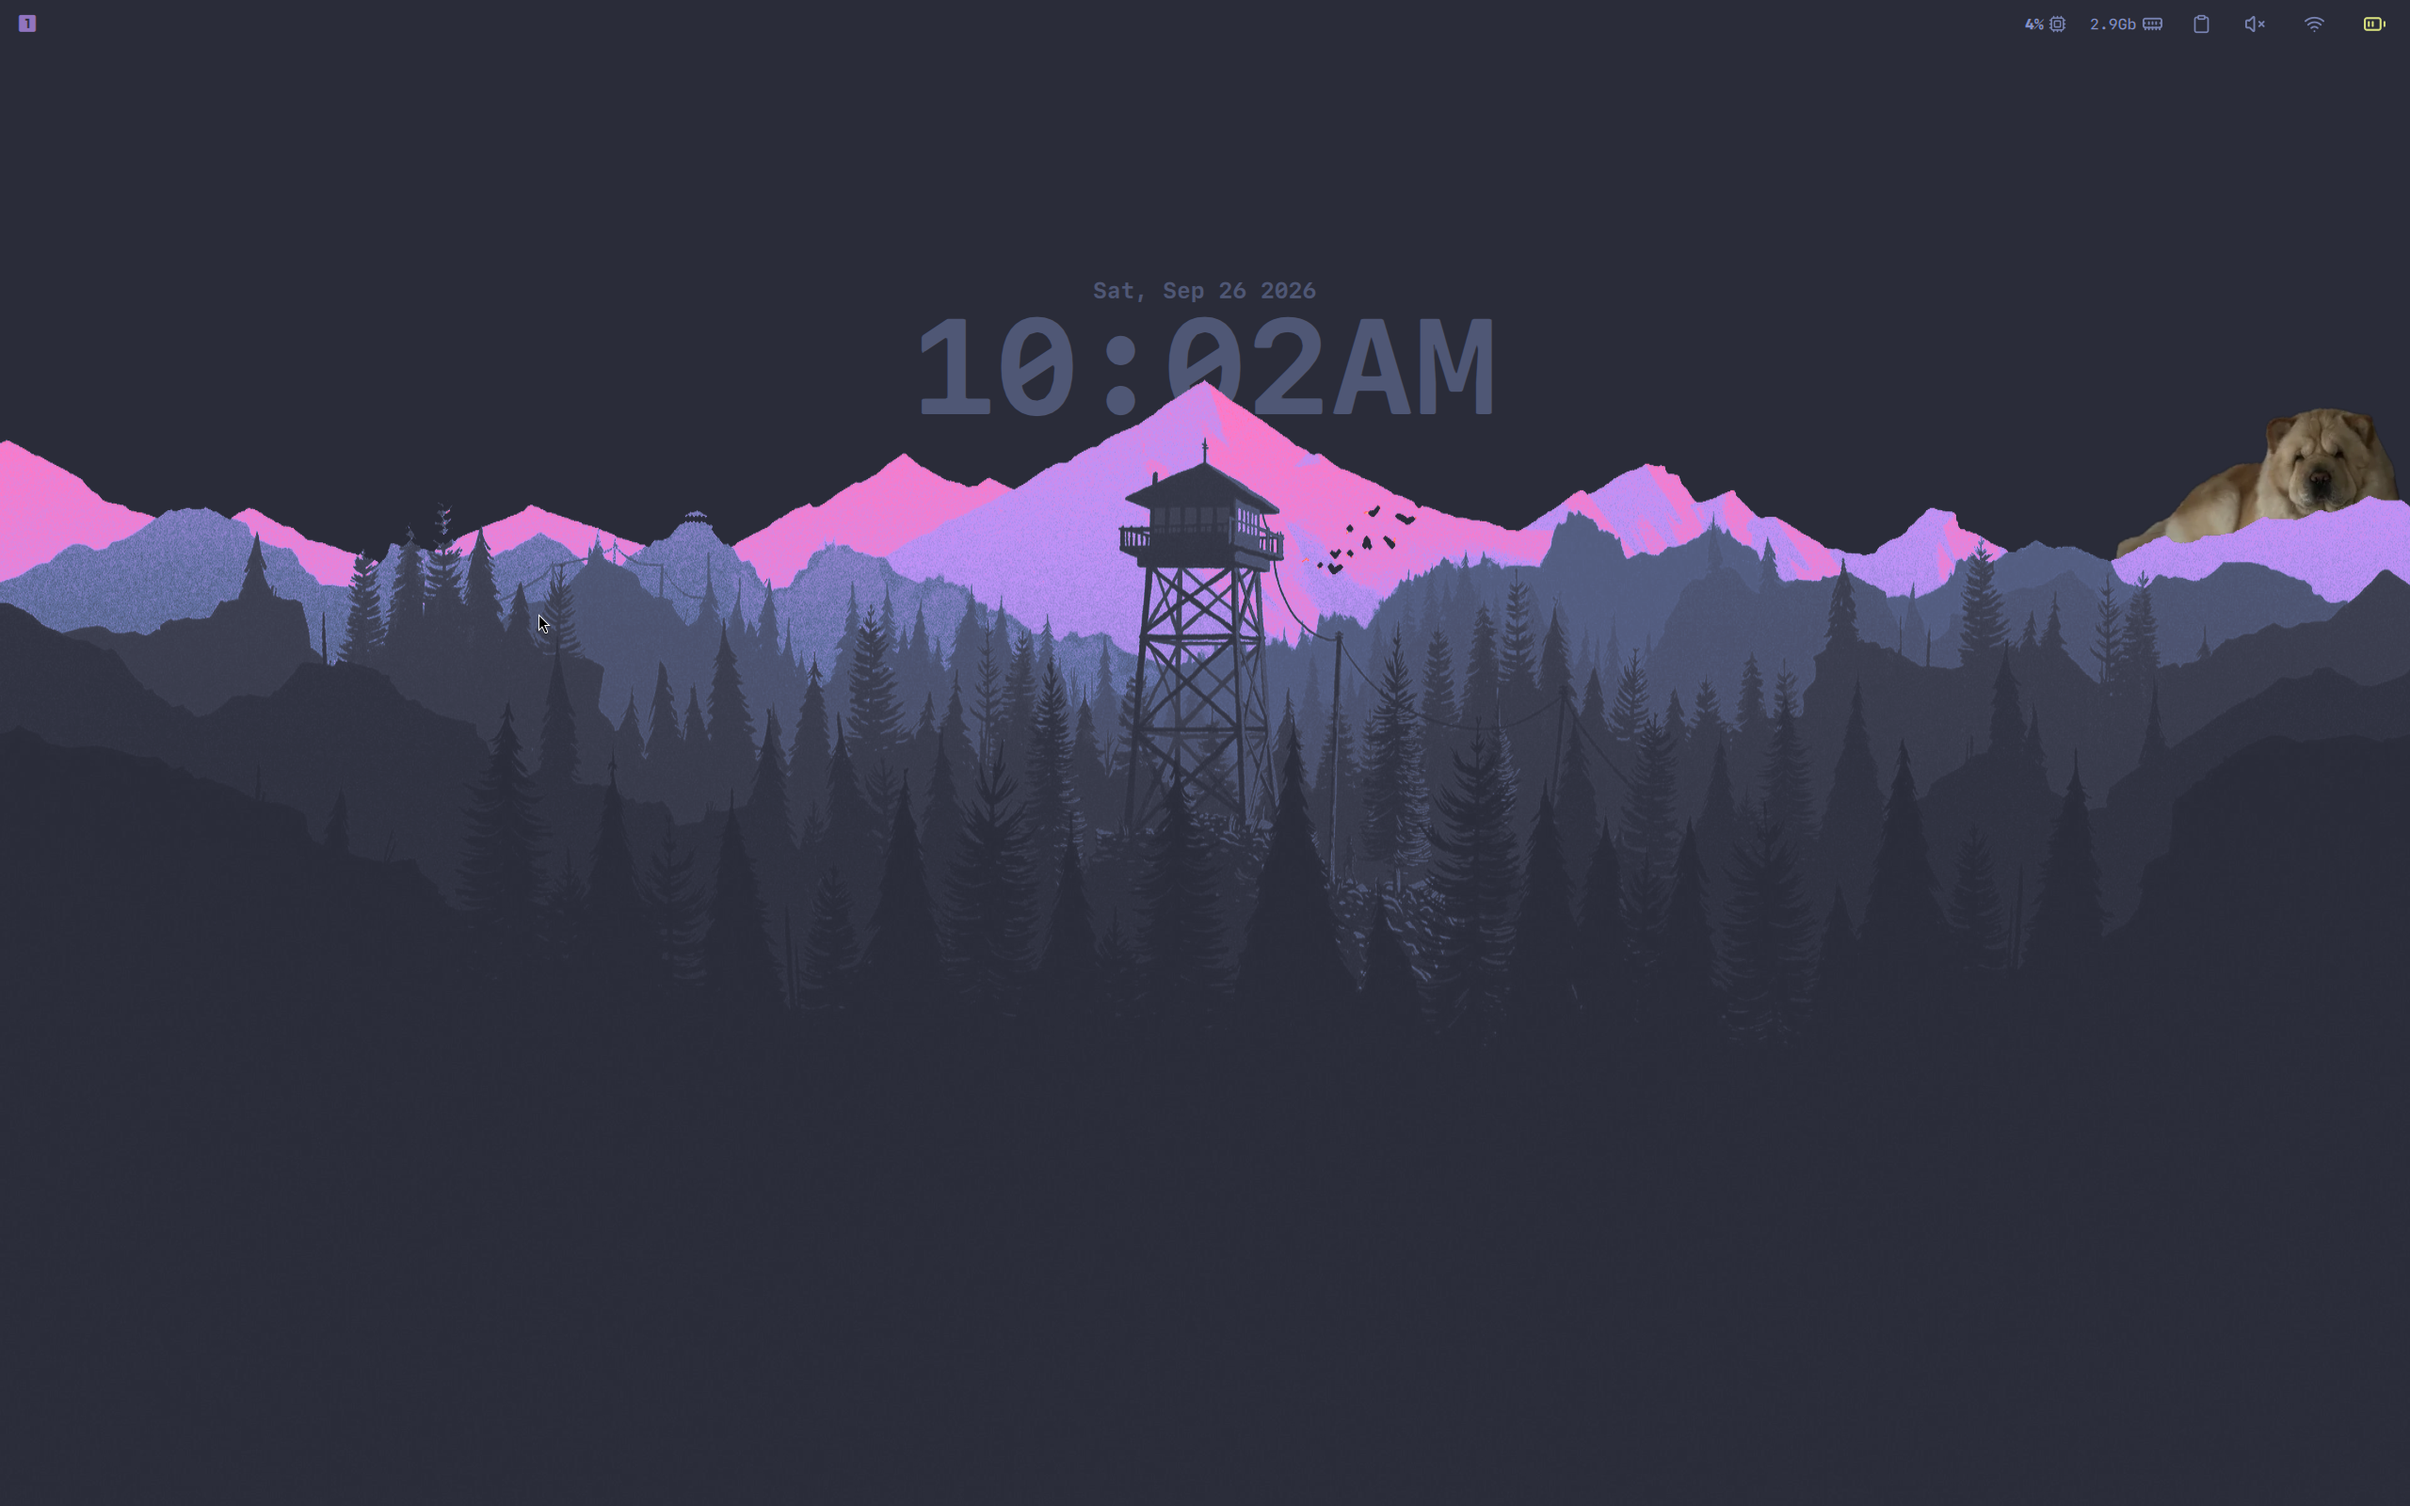
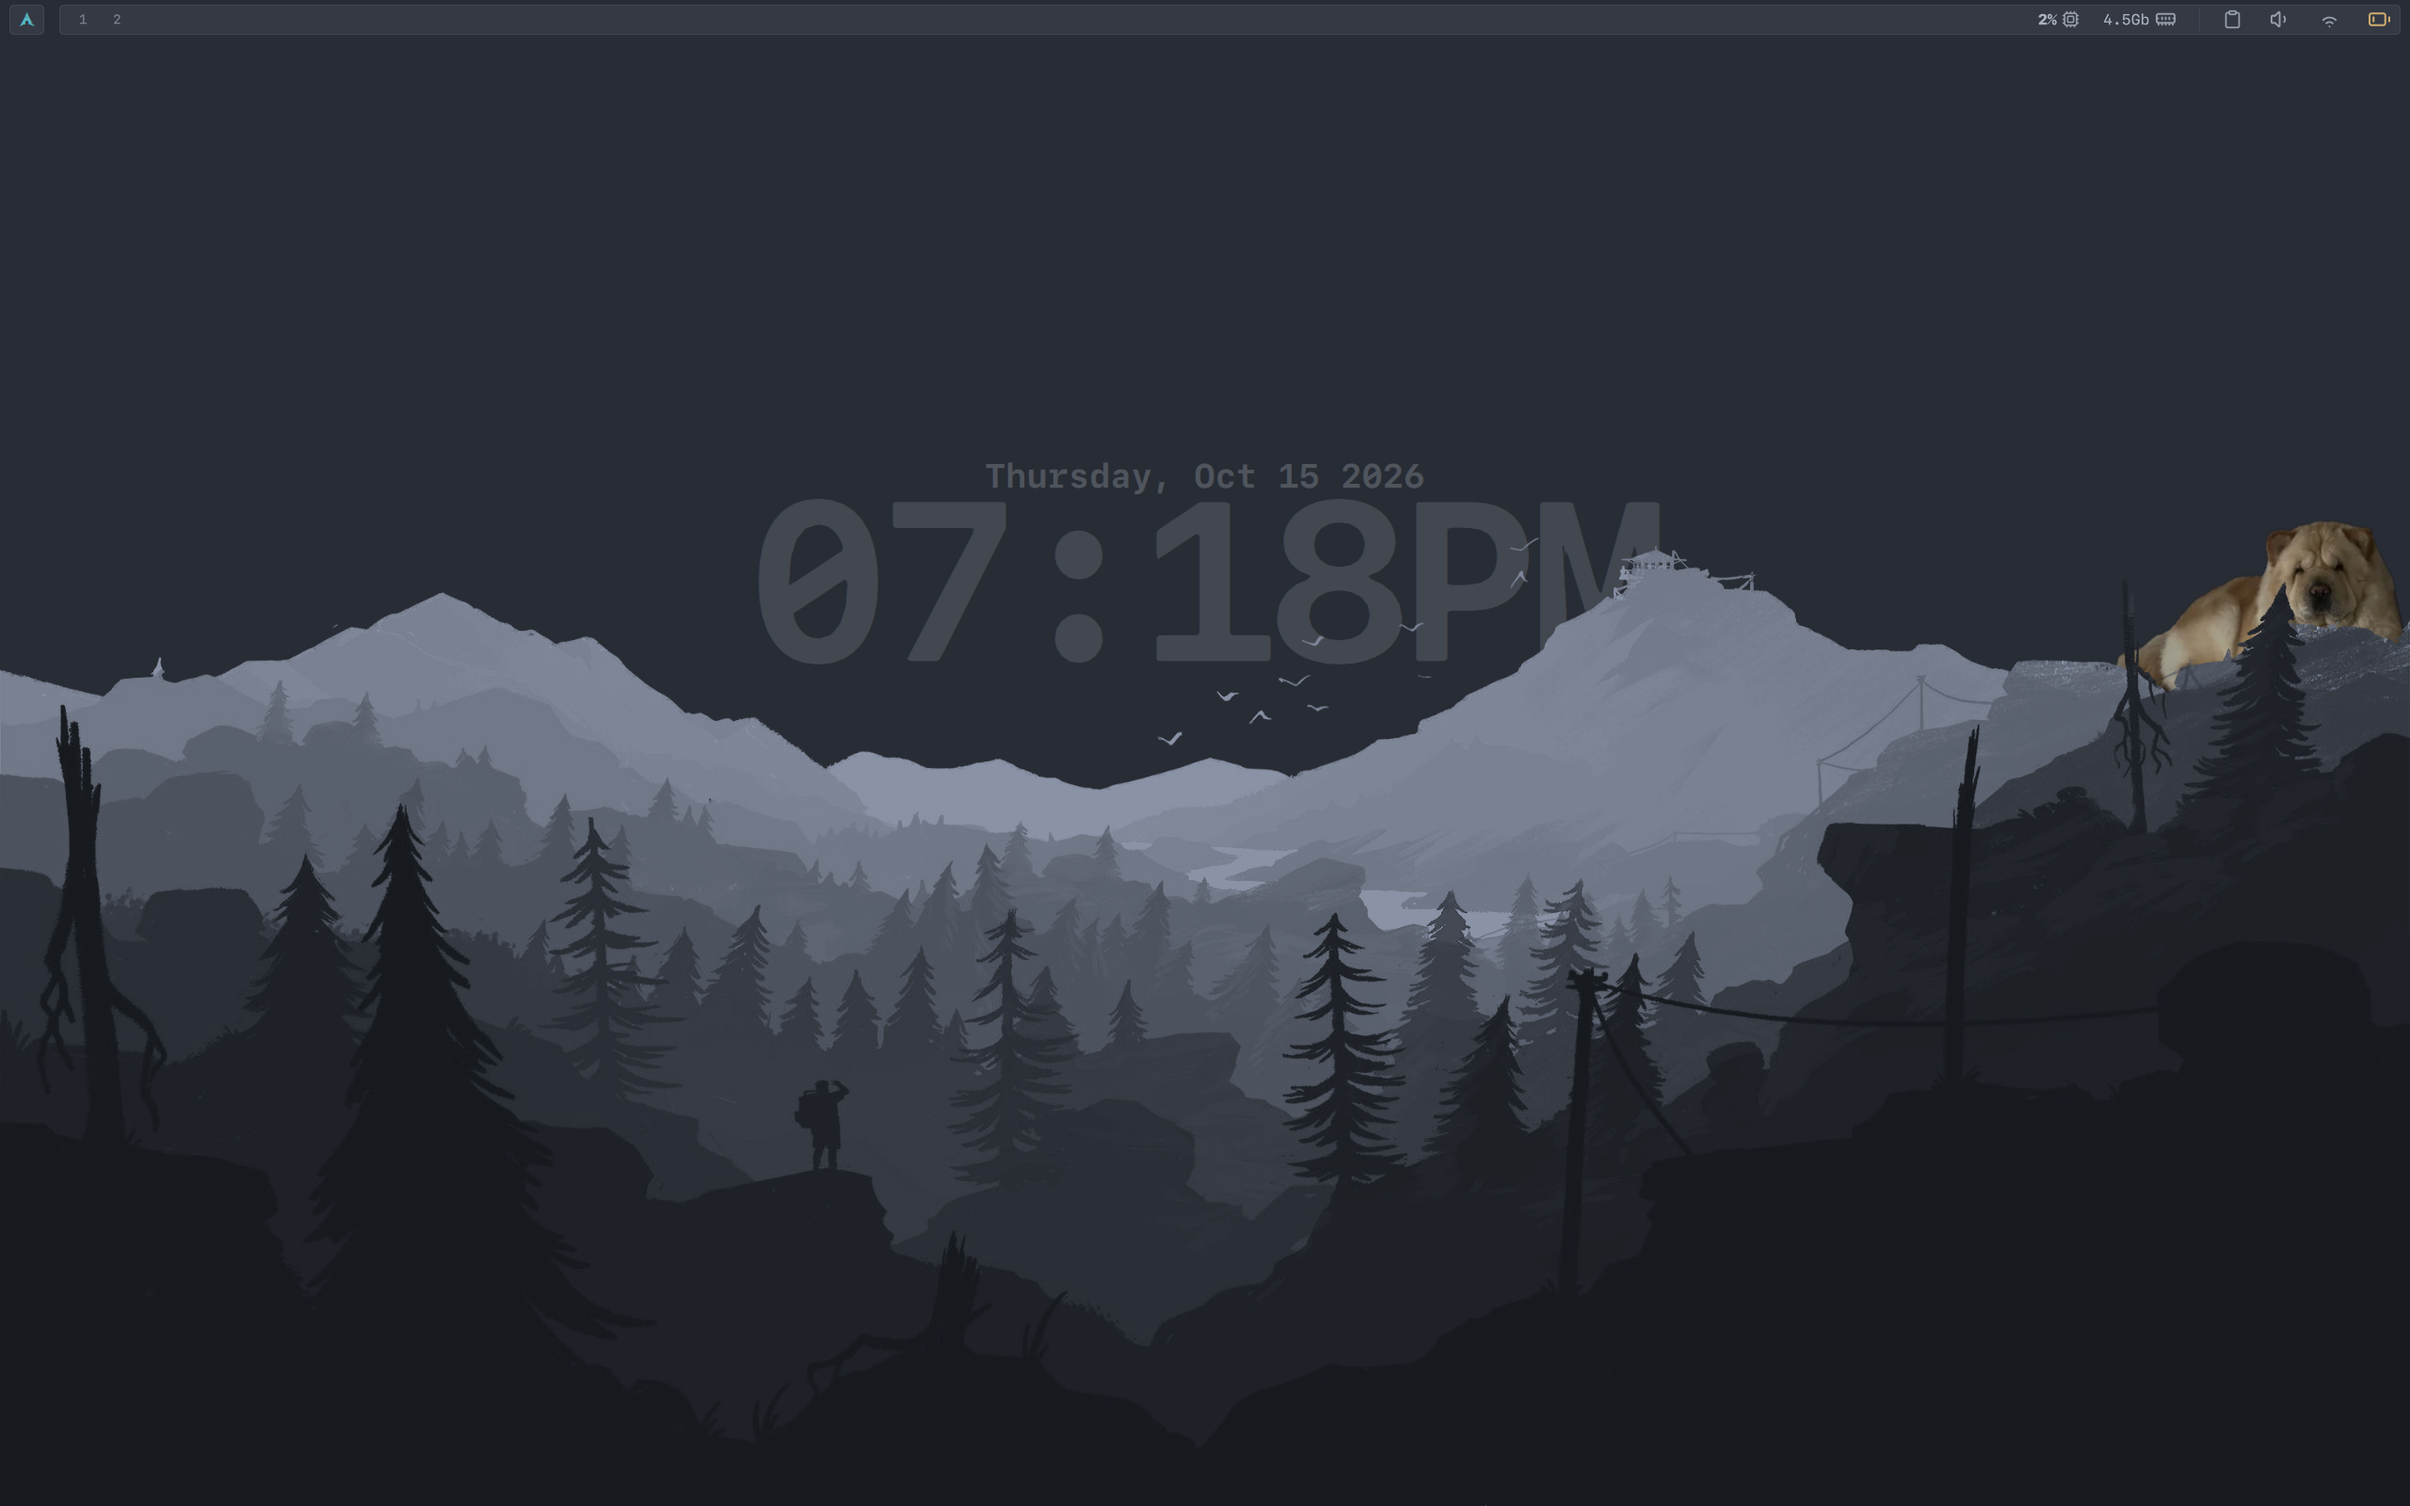
feat(quickshell): pill-style topbar with shared surface theme tokens
- Topbar: split into an OS logo pill and a full-width main pill holding
  workspaces/active window on the left and system resources, a divider,
  clipboard, volume, network, battery and tray on the right
- Workspaces: show numbers instead of icon glyphs; the focused workspace
  is a magenta pill, the others are dimmed with a hover highlight
- Theme: add surface, surfaceBorder and radius tokens and use them for
  the topbar pills, notification cards/actions, workspace pills, tray
  menu/tooltip and clipboard search/list
- Notifications: give cards a surfaceBorder outline to match the pills
- Os: shrink the logo to Fonts.lg to fit the pill
- Update niri and quickshell screenshots

diff --git a/quickshell/windows/Topbar.qml b/quickshell/windows/Topbar.qml
@@ -2,11 +2,16 @@ import Quickshell
 import QtQuick
 import QtQuick.Layouts
 import Quickshell.Wayland
+import "../config"
 import "../widgets" as Widgets
 
 PanelWindow {
   id: topbar
-  implicitHeight: 50
+
+  readonly property int barMargin: 16
+  readonly property int osPillHeight: 37
+  readonly property int pillHeight: 37
+  implicitHeight: osPillHeight
   anchors { top: true; left: true; right: true }
   color: "transparent"
   aboveWindows: true
@@ -14,73 +19,102 @@ PanelWindow {
   WlrLayershell.namespace: "quickshell:topbar"
 
   RowLayout {
-    anchors.fill: parent
-    spacing: 0
+    anchors {
+      fill: parent
+      topMargin: 5
+      leftMargin: 10
+      rightMargin: 10
+      // topMargin: topbar.barMargin
+      // leftMargin: topbar.barMargin + 4
+      // rightMargin: topbar.barMargin + 4
+    }
+    spacing: 16
 
-    // LEFT SECTION
-    Row {
-      spacing: 20
-      leftPadding: 20
-      Layout.fillHeight: true
+    // OS PILL
+    Rectangle {
+      Layout.alignment: Qt.AlignVCenter
+      implicitHeight: mainPill.height
+      implicitWidth: topbar.osPillHeight
+      radius: Theme.radius
+      color: Theme.surface
+      border.color: Theme.surfaceBorder
+      border.width: 1
 
       Widgets.Os {
-        anchors.verticalCenter: parent.verticalCenter
+        anchors.centerIn: parent
       }
-
-      Widgets.Workspaces {
-        anchors.verticalCenter: parent.verticalCenter
-      }
-
-      Widgets.ActiveWindow {
-        anchors.verticalCenter: parent.verticalCenter
-      }
-
-      // Layout.alignment: Qt.AlignVCenter | Qt.AlignLeft
-
     }
 
-    // FLEX SPACE
-    Item { Layout.fillWidth: true }
+    // MAIN PILL
+    Rectangle {
+      id: mainPill
+      Layout.fillWidth: true
+      Layout.alignment: Qt.AlignVCenter
+      implicitHeight: parent.height
+      radius: Theme.radius
+      color: Theme.surface
+      border.color: Theme.surfaceBorder
+      border.width: 1
 
-    // RIGHT SECTION
-    Row {
-      spacing: 30
-      rightPadding: 20
+      // LEFT SECTION
+      Row {
+        anchors { left: parent.left; leftMargin: 10; verticalCenter: parent.verticalCenter }
+        spacing: 20
 
-      // Widgets.ScreenRecord {
-      //   anchors.verticalCenter: parent.verticalCenter
-      // }
+        Widgets.Workspaces {
+          anchors.verticalCenter: parent.verticalCenter
+        }
 
-      Widgets.SystemResources {
-        anchors.verticalCenter: parent.verticalCenter
+        Widgets.ActiveWindow {
+          anchors.verticalCenter: parent.verticalCenter
+        }
       }
 
-      Widgets.Clipboard {
-        id: clipboard
-        anchors.verticalCenter: parent.verticalCenter
+      // RIGHT SECTION
+      Row {
+        anchors { right: parent.right; rightMargin: 10; verticalCenter: parent.verticalCenter }
+        spacing: 24
+
+        // Widgets.ScreenRecord {
+        //   anchors.verticalCenter: parent.verticalCenter
+        // }
+
+        Widgets.SystemResources {
+          anchors.verticalCenter: parent.verticalCenter
+        }
+
+        Rectangle {
+          anchors.verticalCenter: parent.verticalCenter
+          implicitWidth: 1
+          implicitHeight: parent.height
+          color: Theme.surfaceBorder
+        }
+
+        Widgets.Clipboard {
+          id: clipboard
+          anchors.verticalCenter: parent.verticalCenter
+        }
+
+        Widgets.Volume {
+          anchors.verticalCenter: parent.verticalCenter
+        }
+
+        Widgets.Network {
+          anchors.verticalCenter: parent.verticalCenter
+        }
+
+        Widgets.Battery {
+          anchors.verticalCenter: parent.verticalCenter
+        }
+
+        Widgets.SystemTray {
+          anchors.verticalCenter: parent.verticalCenter
+        }
+
+        // Widgets.Clock {
+        //   anchors.verticalCenter: parent.verticalCenter
+        // }
       }
-
-      Widgets.Volume {
-        anchors.verticalCenter: parent.verticalCenter
-      }
-
-      Widgets.Network {
-        anchors.verticalCenter: parent.verticalCenter
-      }
-
-      Widgets.Battery {
-        anchors.verticalCenter: parent.verticalCenter
-      }
-
-      Widgets.SystemTray {
-        anchors.verticalCenter: parent.verticalCenter
-      }
-
-      // Widgets.Clock {
-      //   anchors.verticalCenter: parent.verticalCenter
-      // }
-
     }
   }
 }
-

diff --git a/quickshell/widgets/Workspaces.qml b/quickshell/widgets/Workspaces.qml
@@ -38,7 +38,7 @@ RowLayout {
   }
 
   Row {
-    spacing: 8
+    spacing: 6
     visible: Boolean(root.workspaces.length)
 
     Repeater {
@@ -68,24 +68,42 @@ RowLayout {
       //   implicitWidth: 16
       // }
 
-      Text {
-        id: workspaceLabel
+      Rectangle {
+        id: workspacePill
         required property var modelData
 
         required property int index
 
-        opacity: workspaceLabel.modelData.id == focusedWorkspaceId ? 1 : 0.7
-        // text: rect.modelData.idx // rect.modelData.id
-        text: root.getWorkspaceIconById(workspaceLabel.modelData.idx)
-        color: Theme.primary
-        font.weight: Fonts.black
-        font.family: Fonts.mono
-        font.pixelSize: Fonts.xxl
+        readonly property bool focused: workspacePill.modelData.id == root.focusedWorkspaceId
+
+        anchors.verticalCenter: parent.verticalCenter
+        implicitHeight: 20
+        implicitWidth: Math.max(implicitHeight + 10, workspaceLabel.implicitWidth + 16)
+        radius: Theme.radius
+        color: workspacePill.focused
+          ? Theme.magenta
+          : workspaceHover.containsMouse ? Theme.selection : "transparent"
+
+        Behavior on color { ColorAnimation { duration: 150 } }
+
+        Text {
+          id: workspaceLabel
+          anchors.centerIn: parent
+          text: workspacePill.modelData.idx
+          color: workspacePill.focused ? Theme.bg : Theme.fg
+          opacity: workspacePill.focused ? 1 : 0.6
+          font.weight: Fonts.medium
+          font.family: Fonts.mono
+          font.pixelSize: Fonts.md
+        }
 
         MouseArea {
+          id: workspaceHover
           anchors.fill: parent
+          hoverEnabled: true
+          cursorShape: Qt.PointingHandCursor
           onClicked: () => {
-            Quickshell.execDetached(["niri", "msg", "action", "focus-workspace", workspaceLabel.modelData.idx])
+            Quickshell.execDetached(["niri", "msg", "action", "focus-workspace", workspacePill.modelData.idx])
           }
         }
       }

diff --git a/quickshell/windows/Notifications.qml b/quickshell/windows/Notifications.qml
@@ -23,7 +23,7 @@ Scope {
   property int spacing: 8
   property int margin: 16
   property int defaultTimeoutMs: 6000
-  property color bg: Theme.bg
+  property color bg: Theme.surface
   property color fg: Theme.fg
   property color subFg: Qt.darker(Theme.fg, 1.2)
   property color lowColor: Theme.primary
@@ -86,8 +86,10 @@ Scope {
 
             Layout.fillWidth: true
             implicitHeight: content.implicitHeight + 24
-            radius: 5
+            radius: Theme.radius
             color: root.bg
+            border.width: 1
+            border.color: Theme.surfaceBorder
             // border.width: 1
             // border.color: {
             //   switch (notification.urgency) {
@@ -176,7 +178,7 @@ Scope {
                       required property var modelData
                       implicitWidth: actionLabel.implicitWidth + 16
                       implicitHeight: 24
-                      radius: 5
+                      radius: Theme.radius
                       color: Theme.selection
 
                       Text {

diff --git a/quickshell/widgets/SystemTray.qml b/quickshell/widgets/SystemTray.qml
@@ -107,7 +107,7 @@ RowLayout {
                     implicitWidth: Math.max(160, menuColumn.implicitWidth + 8)
                     implicitHeight: menuColumn.implicitHeight + 8
                     color: Theme.bg
-                    radius: 6
+                    radius: Theme.radius
                     border.width: 1
                     border.color: Theme.selection
 
@@ -203,7 +203,7 @@ RowLayout {
                 Rectangle {
                     anchors.fill: parent
                     color: root.tooltipBg
-                    radius: 6
+                    radius: Theme.radius
                     border.width: 1
                     border.color: Theme.selection
 

diff --git a/quickshell/widgets/Clipboard.qml b/quickshell/widgets/Clipboard.qml
@@ -168,7 +168,7 @@ RowLayout {
         topPadding: 6
         bottomPadding: 6
         background: Rectangle {
-          radius: 6
+          radius: Theme.radius
           color: root.cBgAlt
           border.width: 1
           border.color: search.activeFocus ? root.cBlue : root.cHighlight
@@ -212,7 +212,7 @@ RowLayout {
           ? root.rowHeight * 2
           : Math.min(root.entries.length, root.maxVisibleItems) * root.rowHeight
         color: root.cBgAlt
-        radius: 6
+        radius: Theme.radius
         clip: true
 
         Text {

diff --git a/quickshell/config/Theme.qml b/quickshell/config/Theme.qml
@@ -43,4 +43,9 @@ QtObject {
   readonly property color danger: env("THEME_DANGER", red)
   readonly property color info: env("THEME_INFO", cyan)
   readonly property color warning: env("THEME_WARNING", yellow)
+
+  // Surfaces: topbar pills, notification cards
+  readonly property color surface: bg
+  readonly property color surfaceBorder: Qt.lighter(bg, 1.6)
+  readonly property int radius: 5
 }

diff --git a/quickshell/widgets/Os.qml b/quickshell/widgets/Os.qml
@@ -14,8 +14,8 @@ RowLayout {
     color: Theme.info
     font.weight: Fonts.black
     font.family: Fonts.mono
-    font.pixelSize: Fonts.xxl
-    scale: 1.2
+    font.pixelSize: Fonts.lg
+    // scale: 1.2
   }
   // MultiEffect {
   //   source: osIcon
